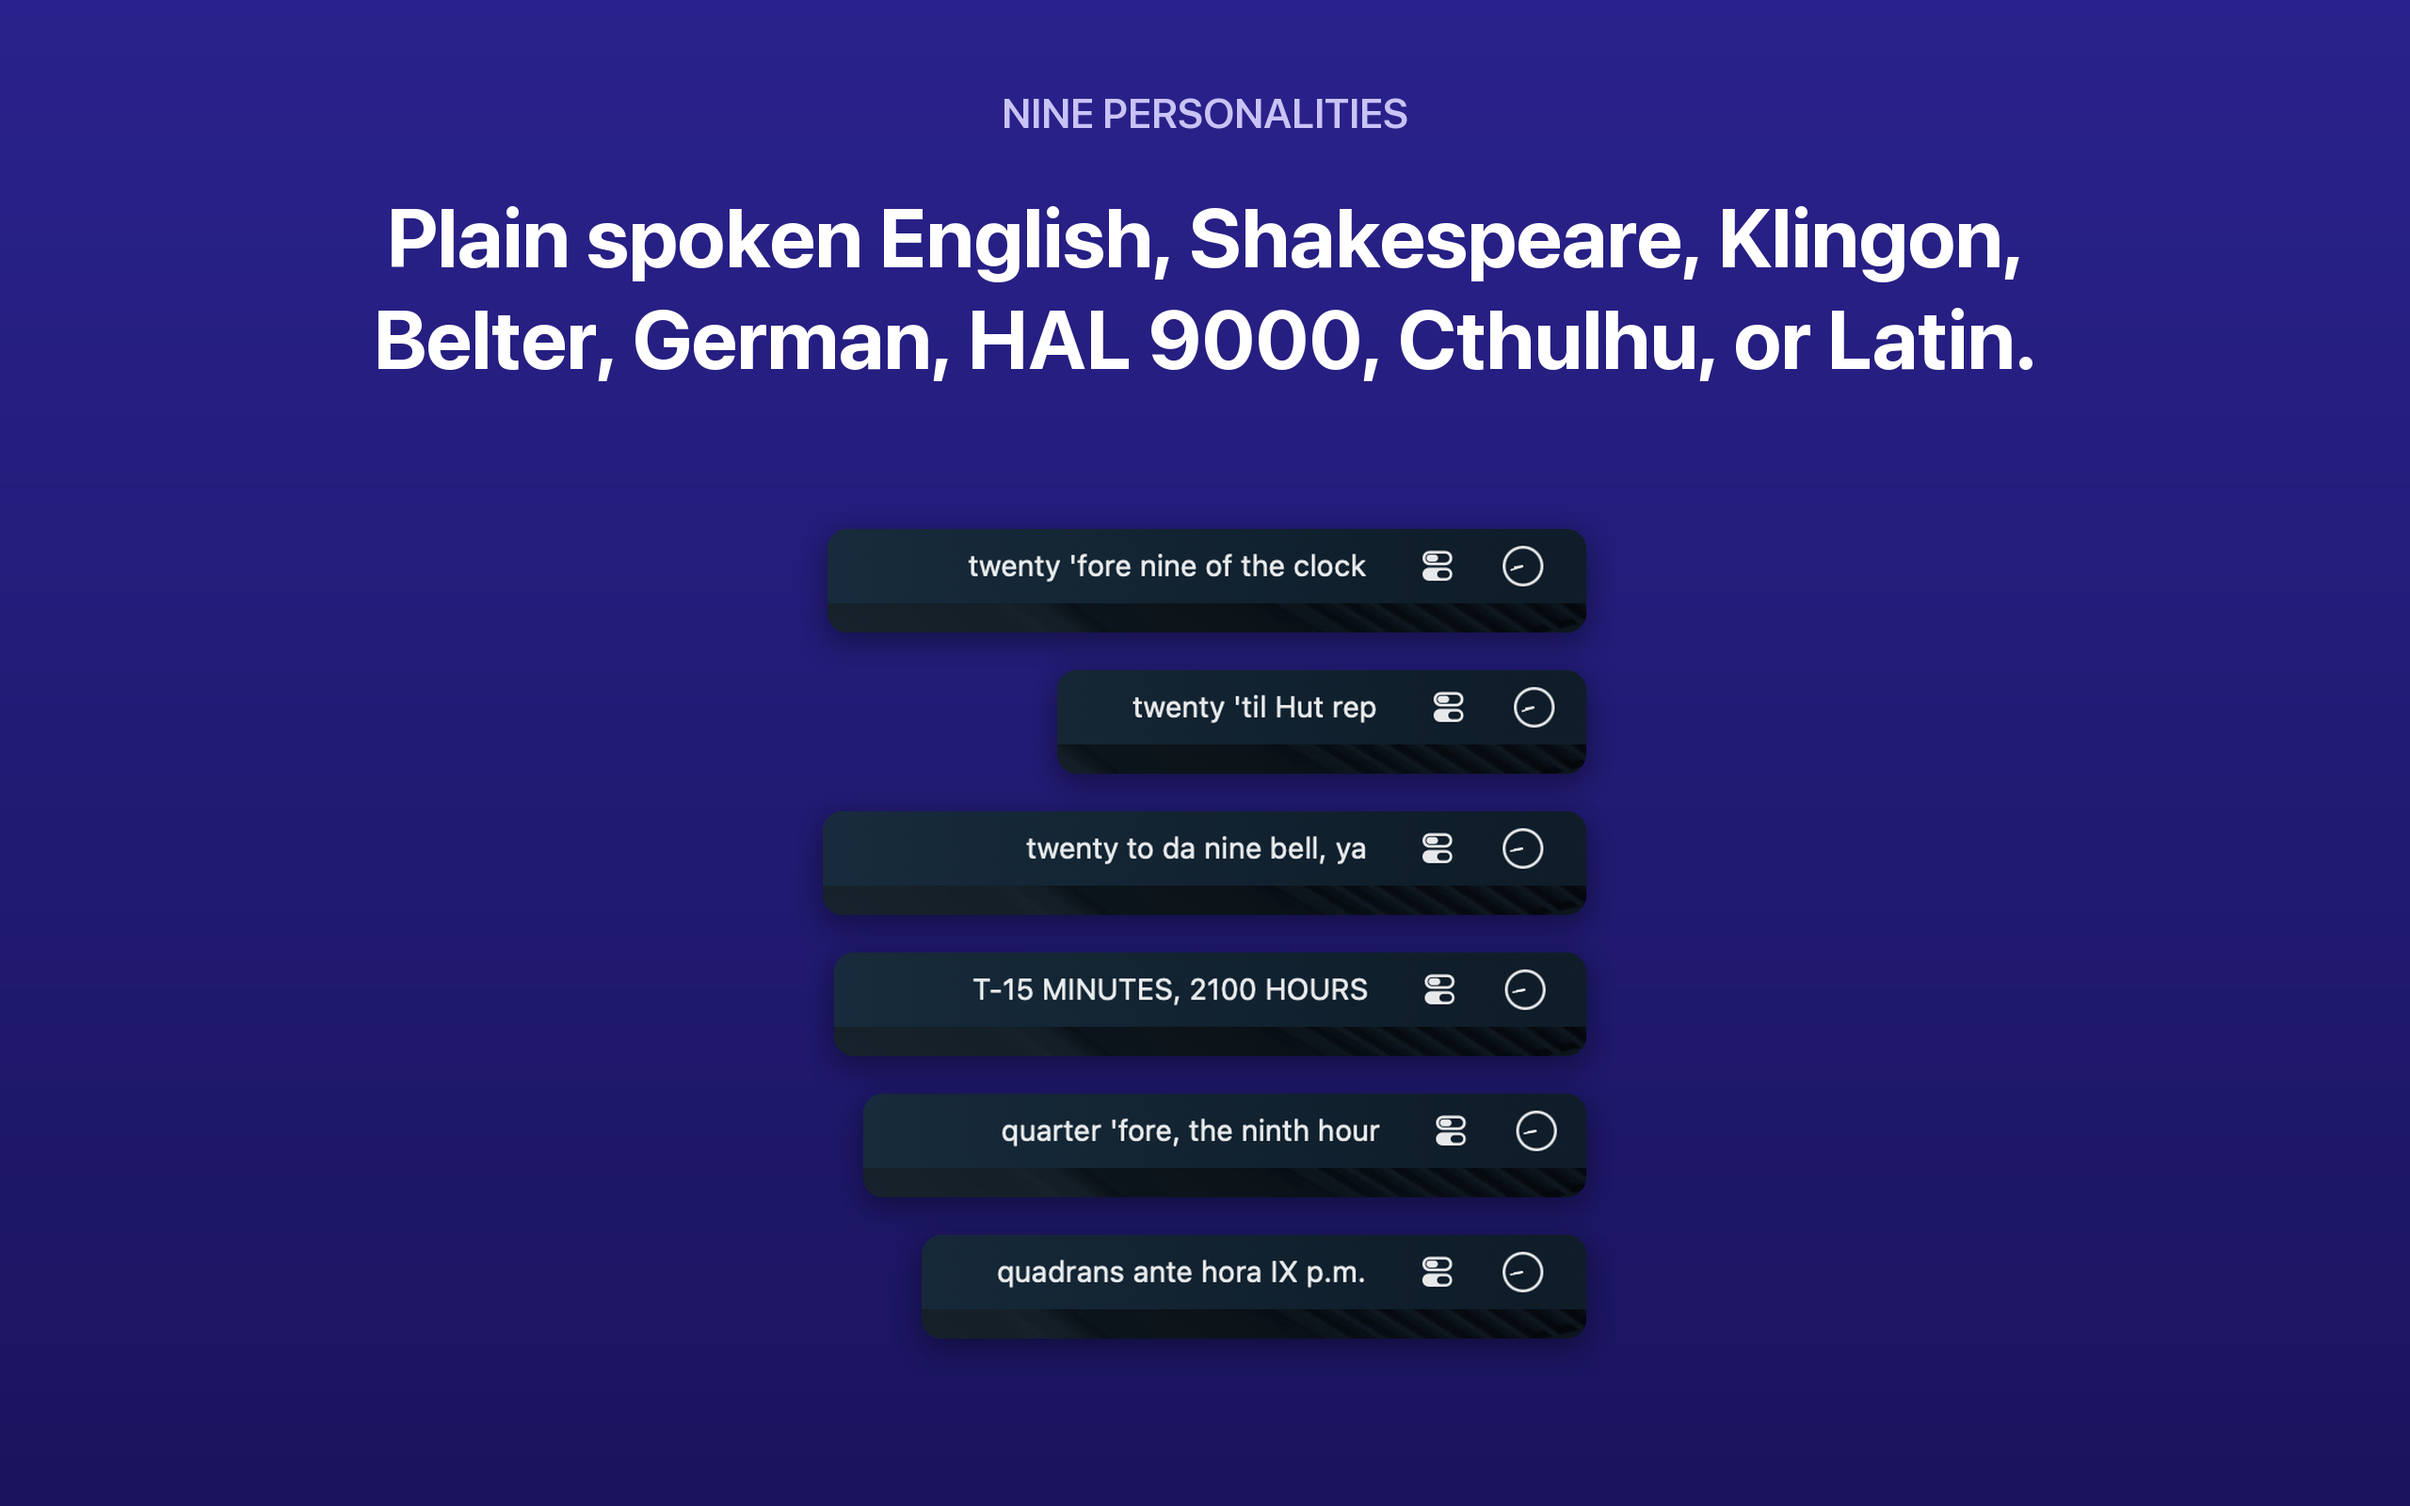
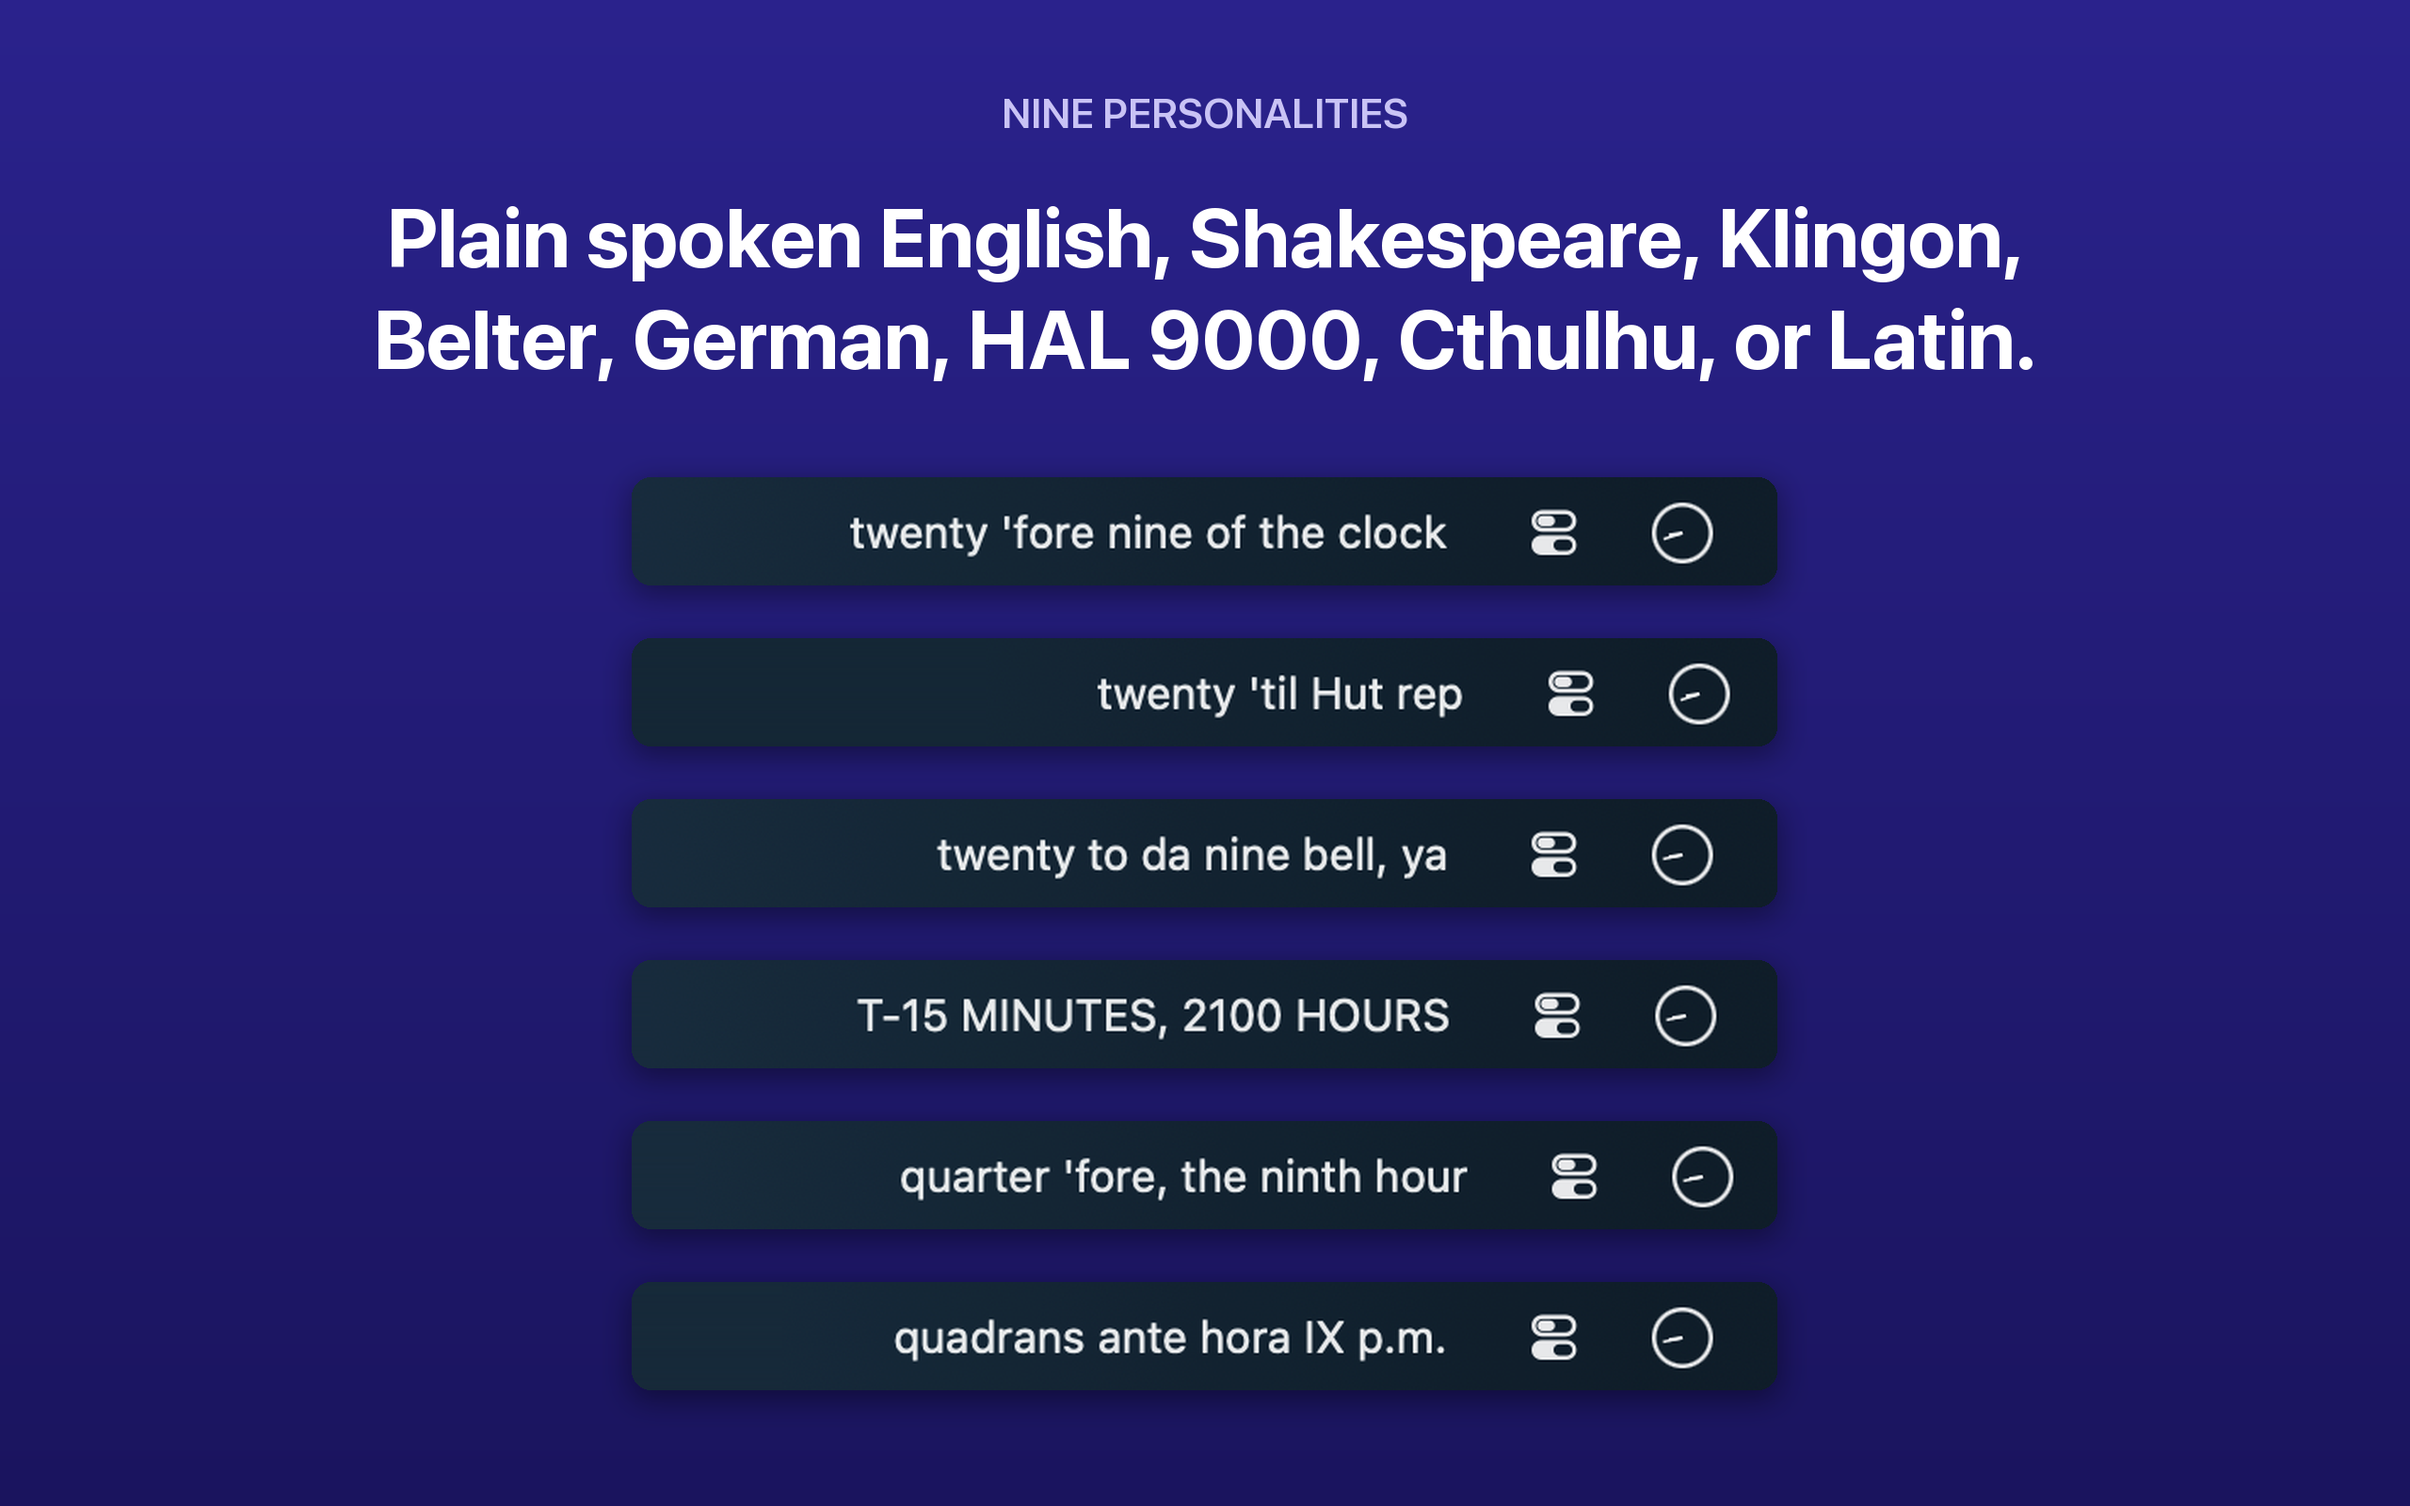
Personalities frame: six identical strips in one column
Crop each menubar capture to the bar itself, equalize widths keeping the
right edge where the icons are, and stack them at a size that fills the
frame.

Claude-Session: https://claude.ai/code/session_01CKz8N7B28fj12nqphE4ph3

Changed region(s): [[0.25, 0.3125, 0.75, 0.9375]]

diff --git a/Tools/make_screenshots.py b/Tools/make_screenshots.py
@@ -46,7 +46,10 @@ HEADLINE = (0xFF, 0xFF, 0xFF)
 # 1, shrunk only if the capture would not fit under the caption. A third
 # element crops the raw to that many points from the top before placing,
 # so menubar strips shot with different amounts of wallpaper line up.
-# `align="right"` right-aligns stacked shots so the menubar icons line up.
+# `uniform=True` crops every shot to the widest one's width, keeping the right
+# edge (where the menubar icons are) and extending a narrower capture's left
+# edge from its own first column, so strips of different widths come out
+# identical. `grid` lays several out in columns.
 # Window captures taken with ⇧⌘4 then Space carry their own shadow and
 # transparent margins; list those in PLAIN so they are placed untouched.
 FRAMES = {
@@ -64,10 +67,10 @@ FRAMES = {
         eyebrow="Nine personalities",
         headline="Plain spoken English, Shakespeare, Klingon, Belter, German, "
                  "HAL 9000, Cthulhu, or Latin.",
-        shots=[("menubar-shakespeare.png", 1.2, 46), ("menubar-klingon.png", 1.2, 46),
-               ("menubar-belter.png", 1.2, 46), ("menubar-hal.png", 1.2, 46),
-               ("menubar-cthulhu.png", 1.2, 46), ("menubar-latin.png", 1.2, 46)],
-        align="right",
+        shots=[("menubar-shakespeare.png", 1.8, 32), ("menubar-klingon.png", 1.8, 32),
+               ("menubar-belter.png", 1.8, 32), ("menubar-hal.png", 1.8, 32),
+               ("menubar-cthulhu.png", 1.8, 32), ("menubar-latin.png", 1.8, 32)],
+        uniform=True,
     ),
     "04-settings": dict(
         eyebrow="Small on purpose",
@@ -139,10 +142,27 @@ def shadowed(canvas, im, xy, blur, alpha):
     canvas.alpha_composite(im, xy)
 
 
-def place(raw, factor, s, avail, crop=None):
+def load(raw, s, crop=None):
     im = Image.open(SHOTS / raw).convert("RGBA")
     if crop:
         im = im.crop((0, 0, im.width, crop * s))
+    return im
+
+
+def equalize(ims):
+    width = max(im.width for im in ims)
+    out = []
+    for im in ims:
+        if im.width < width:
+            padded = Image.new("RGBA", (width, im.height))
+            padded.paste(im.crop((0, 0, 1, im.height)).resize((width - im.width, im.height)), (0, 0))
+            padded.paste(im, (width - im.width, 0))
+            im = padded
+        out.append(im)
+    return out
+
+
+def place(raw, im, factor, s, avail):
     if factor == "fit":
         factor = min(1, avail / im.height)
     if factor != 1:
@@ -168,9 +188,12 @@ def render(name, spec, s):
     top = y + 44 * s
 
     avail = H - top - int(H * 0.06)
-    shots = [place(shot[0], shot[1], s, avail, *shot[2:]) for shot in spec["shots"]]
+    raws = [load(shot[0], s, *shot[2:]) for shot in spec["shots"]]
+    if spec.get("uniform"):
+        raws = equalize(raws)
+    shots = [place(shot[0], im, shot[1], s, avail) for shot, im in zip(spec["shots"], raws)]
     plain = [im for im, shot in zip(shots, spec["shots"]) if shot[0] in PLAIN]
-    gap = 20 * s
+    gap = 28 * s
     cols = spec.get("grid", 1)
     rows = [shots[i:i + cols] for i in range(0, len(shots), cols)]
     block_h = sum(max(im.height for im in row) for row in rows) + gap * (len(rows) - 1)
